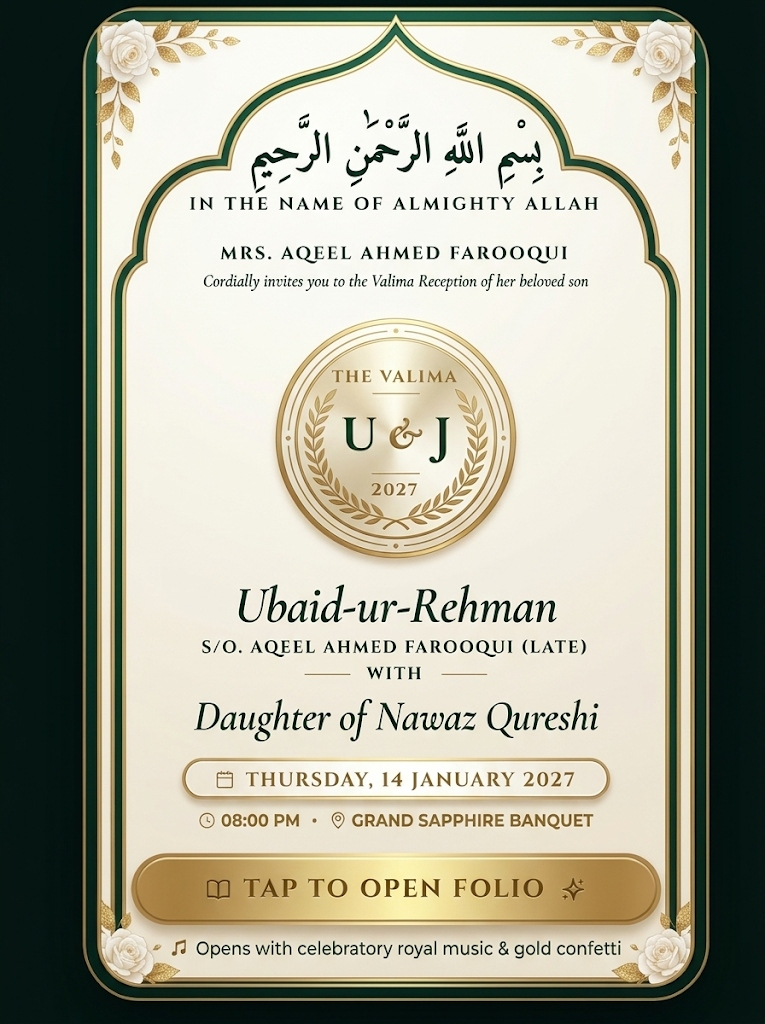
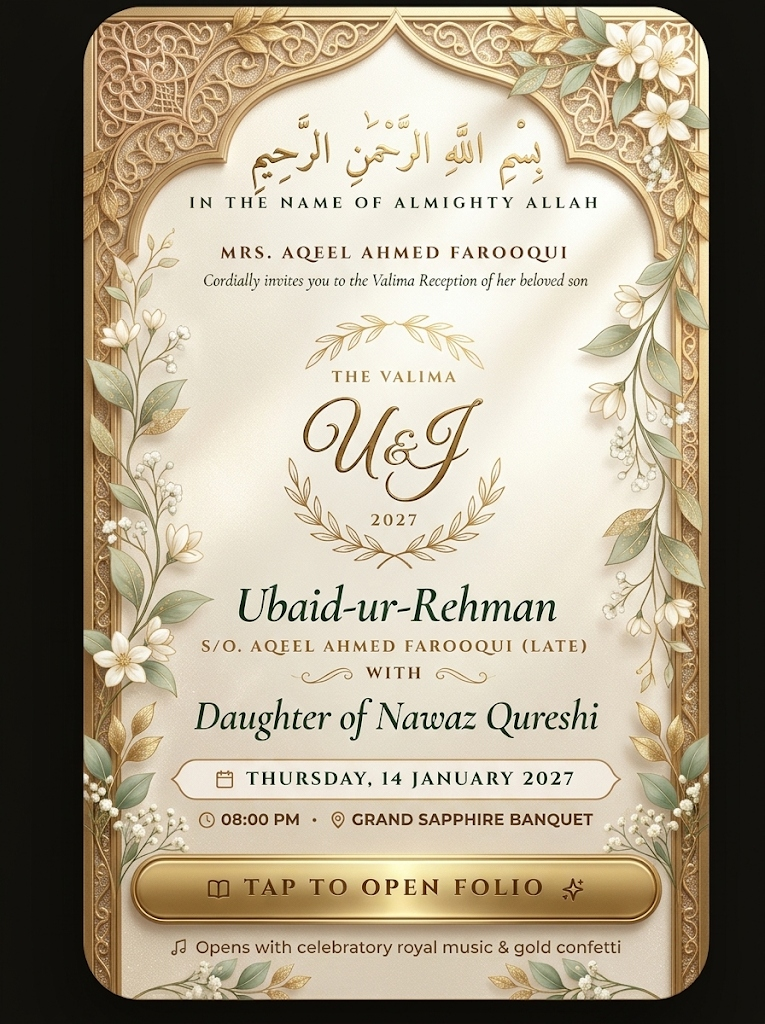
Update front cover to exact gold geometric arch folio card

diff --git a/index.html b/index.html
@@ -89,13 +89,13 @@
       animation: goldShimmer 4s linear infinite;
     }
 
-    /* Royal Folio Background (Deep Emerald & Royal Gold Palace Theme Matching Reference Image) */
+    /* Royal Folio Background (Rich Dark Velvet & Antique Gold Palace Aura) */
     .emerald-palace-bg {
-      background-color: #08110b;
+      background-color: #0b0a09;
       background-image: 
-        radial-gradient(circle at 50% 20%, rgba(20, 50, 30, 0.95) 0%, rgba(9, 23, 14, 0.98) 55%, #050a07 100%),
-        radial-gradient(circle at 15% 85%, rgba(212, 175, 55, 0.15) 0%, transparent 45%),
-        radial-gradient(circle at 85% 85%, rgba(212, 175, 55, 0.15) 0%, transparent 45%);
+        radial-gradient(circle at 50% 25%, rgba(35, 28, 20, 0.95) 0%, rgba(15, 13, 11, 0.98) 60%, #080706 100%),
+        radial-gradient(circle at 15% 85%, rgba(212, 175, 55, 0.12) 0%, transparent 45%),
+        radial-gradient(circle at 85% 85%, rgba(212, 175, 55, 0.12) 0%, transparent 45%);
     }
 
     /* 3D Interactive Folio Card Presentation */
